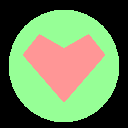
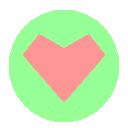
Test more sprites

diff --git a/src/game.rs b/src/game.rs
@@ -204,15 +204,19 @@ pub fn create_world<'a>(renderer: Renderer<'static>,
 {
     let mut world = World::<MySystems>::new();
 
-    let texture = Rc::new(load_texture(&game_renderer, String::from("data/test.png")));
-    let texture2 = Rc::new(load_texture(&game_renderer, String::from("data/test2.png")));
+    let good_texture = Rc::new(load_texture(&game_renderer, String::from("data/good.png")));
+    let neutral_texture = Rc::new(load_texture(&game_renderer, String::from("data/neutral.png")));
+    let bad_texture = Rc::new(load_texture(&game_renderer, String::from("data/bad.png")));
 
-    let test_sprite = Sprite::new(texture);
-    let test_sprite2 = Sprite::new(texture2);
+    let test_sprite = Sprite::new(good_texture);
+    let test_sprite2 = Sprite::new(neutral_texture);
+    let test_sprite3 = Sprite::new(bad_texture);
 
     let transform1 = Transform { pos: Vector2::new(0.0, 0.0), angle: 0.0,
-                                 scale: Vector2::new(1.0, 1.0) };
+                                 scale: Vector2::new(0.5, 0.5) };
     let transform2 = Transform { pos: Vector2::new(150.0, 150.0), angle: 0.0,
+                                 scale: Vector2::new(0.5, 0.5) };
+    let transform3 = Transform { pos: Vector2::new(150.0, 300.0), angle: 0.0,
                                  scale: Vector2::new(0.5, 0.5) };
 
 
@@ -229,6 +233,13 @@ pub fn create_world<'a>(renderer: Renderer<'static>,
         |entity: BuildData<MyComponents>, data: &mut MyComponents| {
             data.transform.add(&entity, transform2);
             data.sprite.add(&entity, test_sprite2);
+        }
+    );
+
+    world.create_entity(
+        |entity: BuildData<MyComponents>, data: &mut MyComponents| {
+            data.transform.add(&entity, transform3);
+            data.sprite.add(&entity, test_sprite3);
         }
     );
 
